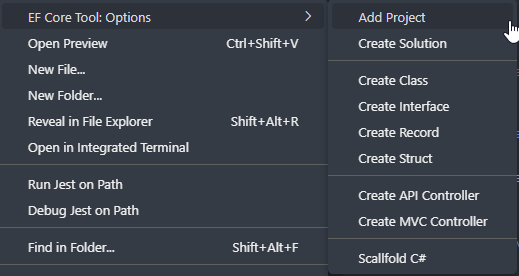
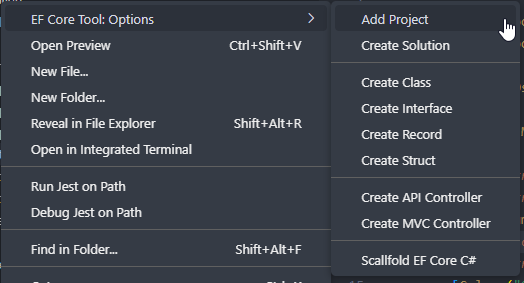
update readme, images

diff --git a/README.md b/README.md
@@ -1,87 +1,57 @@
 <h2 align="center">
-    EF Core Tool
+    EF Core Tools
 </h2>
 <h3 align="center">
-    <img src="https://github.com/khanhtungmtp/ef-core-tools/blob/images/vietnam.gif?raw=true" align="center">
+    <img src="https://raw.githubusercontent.com/khanhtungmtp/ef-core-tools/master/images/vietnam.gif?raw=true" align="center">
 </h3>
 
 ## Goal
 
-> - C# Snippet MTP aims to increase the use of vscode editor as the master tool for console, web and game development in C# Programming Language providing the same shortcuts, efficiency, intellisense that is offered by Visual Studio Community.
+> - EF Core tools to increase the use of vscode editor as the master tool for console, web and game development in C# Programming Language providing the same shortcuts, efficiency, intellisense that is offered by Visual Studio Community.
 > - One of the first objectives is to reduce the amount of extensions downloaded for C# reducing the time and effort on configuration that has to be done by the user as well as to avoid extensions conflicts. Also great features to speed up your development workflow.
 
 ## Current features
-
-> - **_Fix_**: Classes, Interfaces, and other types created correctly even when the user type incorrect names.
-> - **_New Features added_**: Added a default folder for project creation. Add this configuration to your settings with your path: `"ef-core-tool.defaultFolderForProjectCreation": "D:\\"` **{Your path}**
-> - **_New Features added_**:
-> - **_Add Project to a Solution_** : Capability to add projects to the same solution with a click of a button. You can select a different project framework as well as the template.
->
-> ![Add Project](https://github.com/khanhtungmtp/ef-core-tools/blob/master/images/addProject.png?raw=true)
 > ![Menu](https://github.com/khanhtungmtp/ef-core-tools/blob/master/images/menu.png?raw=true)
-> - **_Submenu With Options_** :
+>   - Add Project
+>   - Create Solution
 >   - Create Class
 >   - Create Interface
 >   - Create Record
 >   - Create Struct
-> - **_Fix_**: .NET target frameworks list on project creation are based on OS and SDKs installed.
-> - **_Enhancement_**: Design patterns snippets added. It will create a commented pattern code to be used as reference
-> - **_singleton_** : Creational singleton pattern
-> - **_factoryMethod_** : Creational factory method pattern
-> - **_adapter_** : Structural adapter pattern
-> - **_observer_**: Structural observer pattern
-> - **_Enhancement_**: Regex snippet cheat sheet added.
-> - **_regex_** : Regex cheat sheet
-> - When creating classes or interfaces system will consider if you have a `<RootNamespace>`YourUniqueNamespace`</RootNamespace>` tag on your **_.csproj_**. If the tag is not found system will use your project name as your root namespace
-> - Added command to create Class from the context/menu
-> - Added command to create Interface from the context/menu
-> - How to use:
->   - Right click in the project folder or any folder inside of your project folder and select either Create Class or Create Interface
->   - Give it a name of your file and class or interface will be created automatically in the selected folder
->
-### Command to Create Solution or Project
+>   - Create Api Contronller
+>   - Create MVC Contronller
+>   - Scaffold Ef core C#
+## Add Project to solution
+<h3 align="center">
+    <img src="https://raw.githubusercontent.com/khanhtungmtp/ef-core-tools/master/images/addProject.png" align="center">
+</h3>
 
-> Command to create projects
->
-> Press CTRL + SHIFT + P: Then type: Create Project
-> [ C# Toolbox: Create Project ]
->
-> > ![Create Project](https://github.com/khanhtungmtp/ef-core-tools/blob/master/images/createproject.PNG?raw=true)
->
-> - Projects templates supported:
-> - Blazor Server App
-> - Blazor WebAssembly App
-> - Console Application
-> - Class Library
-> - .NET Core: Empty, MVC, Razor Page, Angular SPA, React SPA, React/Redux SPA, Web Api, GRPC Services, Razor Class Library
->
-> - Added snippets for creating arrays, lists and dictionaries using var
->   - var myArray = new type[size];
->   - var myList = new List\<type>();
->   - var myDictionary = new Dictionary\<type,type>();
+## Scaffold Ef core C#: gen table, view, store to model, dto, services c#
+<h3 align="center">
+    <img src="https://raw.githubusercontent.com/khanhtungmtp/ef-core-tools/master/images/menuscaffold.png" align="center">
+</h3>
+
+## Gen table view custom to model, dto, Accessor
+<h3 align="center">
+    <img src="https://raw.githubusercontent.com/khanhtungmtp/ef-core-tools/master/images/menuscaffoldCustom.png" align="center">
+</h3>
+
+## Gen table view using default scaffold of Microsoft
+<h3 align="center">
+    <img src="https://raw.githubusercontent.com/khanhtungmtp/ef-core-tools/master/images/menuscaffoldMicrosoft.png" align="center">
+</h3>
+
+## Gen store to model, dto, services
+<h3 align="center">
+    <img src="https://raw.githubusercontent.com/khanhtungmtp/ef-core-tools/master/images/menuscaffoldStore.png" align="center">
+</h3>
 
 ## How to use
-
-> - All the snippets comments are shown as -> snippet name
-> - Snippets were created thinking on MTP and the extensive use of tab key
->
-> ![Add var, class, function](https://github.com/khanhtungmtp/ef-core-tools/blob/master/images/clipvarclassfunc.gif?raw=true)
->
-> ![Add property, dictionary](https://github.com/khanhtungmtp/ef-core-tools/blob/master/images/clippropdic.gif?raw=true)
->
-> - Colored comments were created to increase visibility of todo's, reviews, bugs and research
->
-> ![Add list, comments](https://github.com/khanhtungmtp/ef-core-tools/blob/master/images/cliplistcom.gif?raw=true)
-
-## Do you want to contribute?
-
-### Guidelines
-
-> 1. **Fork** the original repository to your own repository
-> 2. **Clone** it to your local
-> 3. **Contribute to it**
-> 4. **Push** it to your remote repo
-> 5. Send a **PR** `[Pull Request]` to the master repo
-> 6. Your contribution will be evaluated then we will merge your changes with the original repository. ❤
-
+Please select folder includes .sln or csproj (Scaffold EF Core C#).
+</br>
+From the second generation onward, if you wish to modify the connection when selecting a different app setting, please reload Visual Studio Code by pressing Ctrl+Shift+P and then selecting 'Reload Window'.
+</br>
+<h3 align="center">
+    <img src="https://raw.githubusercontent.com/khanhtungmtp/ef-core-tools/master/images/reload.png" align="center">
+</h3>
 **Enjoy!**
